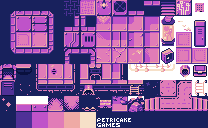
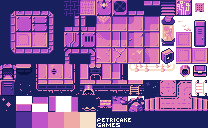
added debug renderer

Changed region(s): [[0.1442, 0.75, 0.4038, 0.875]]

diff --git a/android/assets/space.tsx b/android/assets/space.tsx
@@ -1,4 +1,5 @@
 <?xml version="1.0" encoding="UTF-8"?>
-<tileset version="1.5" tiledversion="1.7.2" name="space" tilewidth="16" tileheight="16" tilecount="104" columns="13">
+<tileset version="1.5" tiledversion="1.7.2" name="space" tilewidth="16" tileheight="16" tilecount="416" columns="13">
+ <grid orientation="orthogonal" width="16" height="96"/>
  <image source="CosmicLilac_Tiles.png" width="208" height="128"/>
 </tileset>

diff --git a/core/src/com/playper3/space/screens/GameScreen1.java b/core/src/com/playper3/space/screens/GameScreen1.java
@@ -104,7 +104,6 @@ public class GameScreen1 implements Screen {
         camera.position.set(Gdx.graphics.getWidth() / 2, Gdx.graphics.getHeight() / 2, 0);
 
         //B2D setup
-        //Box2D.init();
         world = new World(new Vector2(0, 0), true);
         debugRenderer = new Box2DDebugRenderer();
 
@@ -114,47 +113,11 @@ public class GameScreen1 implements Screen {
         FixtureDef fDef = new FixtureDef();
         Body body;
 
-        //upWalls
-        for (MapObject object : map.getLayers().get(3).getObjects().getByType(RectangleMapObject.class)) {
+        //walls
+        for (MapObject object : map.getLayers().get(2).getObjects().getByType(RectangleMapObject.class)) {
             Rectangle rectangle = ((RectangleMapObject) object).getRectangle();
             bodyDef.type = BodyDef.BodyType.StaticBody;
-            bodyDef.position.set(rectangle.getX() + rectangle.getWidth() / 2, rectangle.getY() + rectangle.getHeight());
-
-            body = world.createBody(bodyDef);
-            shape.setAsBox(rectangle.getWidth() / 2, rectangle.getHeight() / 2);
-            fDef.shape = shape;
-            body.createFixture(fDef);
-        }
-
-        //downWalls
-        for (MapObject object : map.getLayers().get(4).getObjects().getByType(RectangleMapObject.class)) {
-            Rectangle rectangle = ((RectangleMapObject) object).getRectangle();
-            bodyDef.type = BodyDef.BodyType.StaticBody;
-            bodyDef.position.set(rectangle.getX() + rectangle.getWidth() / 2, rectangle.getY() + rectangle.getHeight());
-
-            body = world.createBody(bodyDef);
-            shape.setAsBox(rectangle.getWidth() / 2, rectangle.getHeight() / 2);
-            fDef.shape = shape;
-            body.createFixture(fDef);
-        }
-
-        //leftWalls
-        for (MapObject object : map.getLayers().get(5).getObjects().getByType(RectangleMapObject.class)) {
-            Rectangle rectangle = ((RectangleMapObject) object).getRectangle();
-            bodyDef.type = BodyDef.BodyType.StaticBody;
-            bodyDef.position.set(rectangle.getX() + rectangle.getWidth() / 2, rectangle.getY() + rectangle.getHeight());
-
-            body = world.createBody(bodyDef);
-            shape.setAsBox(rectangle.getWidth() / 2, rectangle.getHeight() / 2);
-            fDef.shape = shape;
-            body.createFixture(fDef);
-        }
-
-        //rightWalls
-        for (MapObject object : map.getLayers().get(6).getObjects().getByType(RectangleMapObject.class)) {
-            Rectangle rectangle = ((RectangleMapObject) object).getRectangle();
-            bodyDef.type = BodyDef.BodyType.StaticBody;
-            bodyDef.position.set(rectangle.getX() + rectangle.getWidth() / 2, rectangle.getY() + rectangle.getHeight());
+            bodyDef.position.set(rectangle.getX() + rectangle.getWidth() / 2, rectangle.getY() + rectangle.getHeight() /  2);
 
             body = world.createBody(bodyDef);
             shape.setAsBox(rectangle.getWidth() / 2, rectangle.getHeight() / 2);

diff --git a/core/src/com/playper3/space/scenes/HUD.java b/core/src/com/playper3/space/scenes/HUD.java
@@ -32,7 +32,7 @@ public class HUD implements Disposable {
 
     private int hunger;
     private int hydration;
-    private float health;
+    private int health;
     private String room;
 
     Label healthL;
@@ -50,7 +50,7 @@ public class HUD implements Disposable {
 
         generator = new FreeTypeFontGenerator(Gdx.files.internal("upheaval/upheavtt.ttf"));
         fontParameter = new FreeTypeFontGenerator.FreeTypeFontParameter();
-        fontParameter.size = 3;
+        fontParameter.size = 10;
 
         font = generator.generateFont(fontParameter);
         labelStyle = new Label.LabelStyle(font, Color.BLACK);
@@ -59,7 +59,7 @@ public class HUD implements Disposable {
 
         hunger = 10;
         hydration = 10;
-        health = 20.0f;
+        health = 100;
         room = "Main";
 
 
@@ -73,7 +73,7 @@ public class HUD implements Disposable {
         hudTable.setSize(250,350);
 
         healthL = new Label (" HEALTH ", labelStyle);
-        healthLabel = new Label(String.format("%03f", health), labelStyle);
+        healthLabel = new Label(String.format("%03d", health), labelStyle);
         hungerL = new Label (" HUNGER ", labelStyle);
         hungerLabel = new Label(String.format("%02d", hunger), labelStyle);
         hydrationL = new Label (" HYDRATION ", labelStyle);
